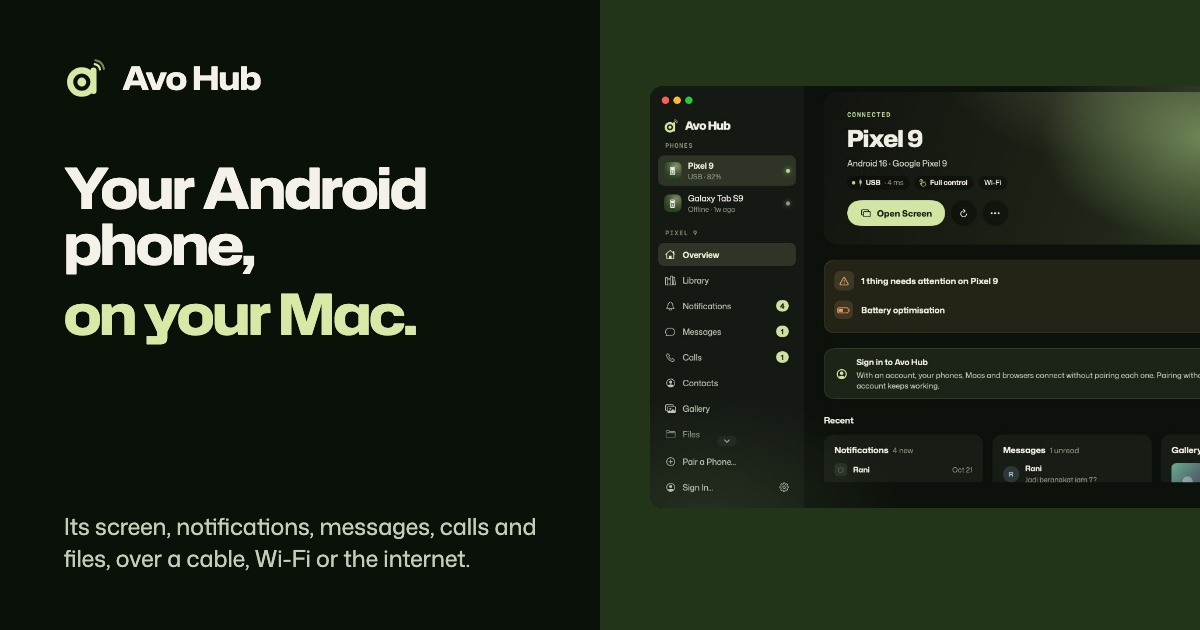
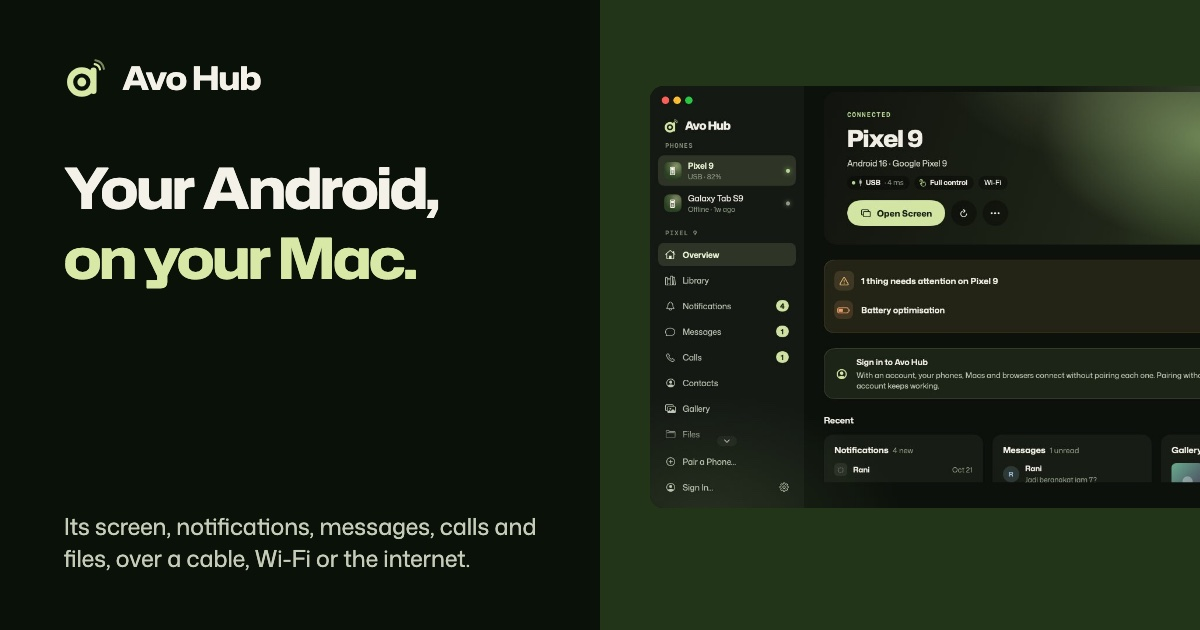
Shorten Avo Hub's headline to Your Android, on your Mac and keep its pairing walk-through compact on phones
The headline fits two lines down to 320 px in both languages (Indonesian:
Android kamu, langsung di Mac), and its share cards say the same. On
phones and tablets the pairing steps are shorter under the held sheet, the
note that it is only a walk-through stays visible, and the first section
keeps its distance from the hero. The windows held beside Avo Hub's
features are no longer hidden from screen readers. The hero's other
windows load after the page. The README describes the slogan, the
screenshots, the new settings and what search engines are given.

Changed region(s): [[0.0308, 0.3619, 0.37, 0.5429], [0.3392, 0.3016, 0.37, 0.3317]]

diff --git a/website/tools/og-image.html b/website/tools/og-image.html
@@ -47,8 +47,8 @@
   const lang = q.get('lang') || 'en';
   const hub = q.get('page') === 'hub';
   const text = (hub ? {
-    en: ['Your Android phone,', 'on your Mac.', 'Its screen, notifications, messages, calls and files, over a cable, Wi‑Fi or the internet.'],
-    id: ['Ponsel Android kamu,', 'langsung di Mac.', 'Layar, notifikasi, pesan, panggilan, dan file-nya, lewat kabel, Wi‑Fi, atau internet.'],
+    en: ['Your Android,', 'on your Mac.', 'Its screen, notifications, messages, calls and files, over a cable, Wi‑Fi or the internet.'],
+    id: ['Android kamu,', 'langsung di Mac.', 'Layar, notifikasi, pesan, panggilan, dan file-nya, lewat kabel, Wi‑Fi, atau internet.'],
   } : {
     en: ['Android at heart.', 'Mac to the core.', 'Android apps and games on your Mac, each in its own window. Free, for Apple silicon.'],
     id: ['Jiwa Android,', 'rasa Mac.', 'Aplikasi dan game Android di Mac kamu, masing-masing di jendelanya sendiri. Gratis, untuk chip Apple.'],

diff --git a/website/src/assets/js/reel.js b/website/src/assets/js/reel.js
@@ -117,13 +117,14 @@ export function setupReel({ reduceMotion }) {
     if (reduceMotion.matches) stop();
   });
 
-  // The other windows wait until the first one has loaded.
-  const first = items[0].querySelector('img');
+  // The other windows load once the page has, so they never compete with
+  // the first screen.
   const warm = () => {
     for (const img of stage.querySelectorAll('img[loading="lazy"]')) img.loading = 'eager';
   };
-  if (first?.complete) warm();
-  else first?.addEventListener('load', warm, { once: true });
+  const idle = () => ('requestIdleCallback' in window ? requestIdleCallback(warm, { timeout: 2500 }) : setTimeout(warm, 600));
+  if (document.readyState === 'complete') idle();
+  else window.addEventListener('load', idle, { once: true });
 
   show(0);
 }

diff --git a/website/src/assets/css/site.css b/website/src/assets/css/site.css
@@ -2697,6 +2697,14 @@ html.has-lightbox {
     margin-top: 24px;
   }
 
+  .hero {
+    min-height: 0;
+  }
+
+  .hero + .section {
+    padding-top: var(--section);
+  }
+
 }
 
 @media (max-width: 1000px) {
@@ -2910,12 +2918,12 @@ html.has-lightbox {
   }
 
   .js .pair-step {
-    min-height: 46svh;
+    min-height: 34svh;
     align-content: center;
   }
 
-  .js .pair-label {
-    display: none;
+  .pair-label {
+    font-size: 14px;
   }
 
   .sheet {

diff --git a/website/src/pages/hub.html b/website/src/pages/hub.html
@@ -86,7 +86,7 @@
             </div>
           </li>
         </ul>
-        <div class="index-stage" data-index-stage aria-hidden="true"></div>
+        <div class="index-stage" data-index-stage></div>
       </div>
       <div class="also">
         <h3 class="h-sub">{{t:hub.features.alsoTitle}}</h3>

diff --git a/website/README.md b/website/README.md
@@ -6,6 +6,12 @@ a small Node script. Plain HTML, CSS and
 JavaScript; no framework, no npm dependencies, no cookies, no analytics. It
 is hosted on GitHub Pages as is.
 
+The slogan is **Android at heart. Mac to the core.** (Indonesian: **Jiwa
+Android, rasa Mac.**). Both pages open with its two halves split by the
+product's real windows, and the footer closes with it. The look is Avo's
+haze palette set flat: no gradients, glows, blur or shadows at rest; the
+pictures are the apps' own windows.
+
 ## Contents
 
 ```
@@ -16,19 +22,23 @@ website/
 │   ├── pages/               index.html (landing page), hub.html (Avo Hub, at /hub), 404.html
 │   ├── partials/            head, header, footer, SVG sprite
 │   ├── i18n/en.json, id.json  All wording, English and Indonesian (same keys; the build checks)
-│   └── assets/              css/site.css, css/fonts/ (one file per typeface set), js/ (site
-│                            behaviour, pointer motion, games showcase, tabs, click to zoom,
-│                            WebGL haze), fonts/ (one folder per family, each with
-│                            its OFL.txt), img/ (Avo mark and icon from branding/, favicons, og/,
-│                            screens/: screenshots of Avo in AVIF, WebP and JPEG at 640 px and
-│                            full width, with player names and device IDs blurred)
+│   └── assets/              css/site.css, css/fonts/ (one file per typeface set), js/ (site.js:
+│                            header, entrances; reel.js: the hero's windows; commands.js: Avo's
+│                            commands and the game keys; story.js: the held story, Avo Hub's
+│                            index and pairing walk-through; lightbox.js: click to zoom),
+│                            fonts/ (one folder per family, each with its OFL.txt), img/ (Avo
+│                            mark and icon from branding/, favicons, og/, screens/: Avo's
+│                            windows, Avo Hub's windows from its snapshot tests and the disk
+│                            image's background, in AVIF, WebP and JPEG at 640 px and full
+│                            width, with player names and device IDs blurred)
 ├── tools/
 │   ├── build.mjs            Builds dist/ (npm run build); --strict refuses placeholders
 │   ├── serve.mjs            Local development server with rebuild on change
 │   ├── screenshots.mjs      Headless Chrome screenshots and layout checks
 │   └── og-image.html        Template for the social preview images (src/assets/img/og/)
 ├── tests/                   node --test: the built site (both languages, links, no emoji,
-│                            CSP-friendly markup, configuration switches)
+│                            CSP-friendly markup, titles, share cards, structured data,
+│                            sitemap, configuration switches)
 ├── deploy/github-pages.yml  GitHub Actions workflow to copy into .github/workflows/
 └── dist/                    Build output (ignored by git)
 ```
@@ -47,8 +57,8 @@ the ones left and `npm run build:strict` refuses to build until none are.
 | --- | --- |
 | `siteUrl` | Public address of the site (`https://avodroid.com`). Used for canonical links, the sitemap and social previews. |
 | `githubUrl`, `githubBranch` | The repository and its branch, for links into `docs/`. |
-| `release` | `available: false` says plainly that no build is published and offers "Build from source". Set `available: true`, `version` and `downloadUrl` when a release is out. |
-| `hub` | Avo Hub's page: its repository (`githubUrl`) and `release`, which works like Avo's. While `available` is false the page says Avo Hub isn't released yet and points to GitHub and to building from source. |
+| `release` | `available: false` says plainly that no build is published and offers "Build from source". Set `available: true`, `version`, `downloadUrl` and `size` (the disk image's size, shown beside the button and as a figure) when a release is out. |
+| `hub` | Avo Hub's page: its repository (`githubUrl`, linked only once `openSource` is true), `release`, which works like Avo's, and the links to its plans and policies (`pricingUrl`, `termsUrl`, `privacyUrl`, `refundUrl`, opened with `?lang=` in the page's language). While `available` is false the page says Avo Hub isn't released yet and leads to its pricing. |
 | `fonts` | The typeface set, one switch for the whole site: `'hubot-mona'` (A, default: Hubot Sans headings, Mona Sans text, Mona Sans Mono labels), `'geist'` (B), `'archivo'` (C), `'jakarta'` (D, Plus Jakarta Sans). Letters work too. Only the chosen set's files are published. |
 | `maintainer.name` | Named in the footer credit ("Made by … in West Kalimantan, with help from Claude."). `null` says "an independent developer". |
 | `contact.email` | Public contact address. |
@@ -83,6 +93,20 @@ runs:
 ```sh
 node tools/screenshots.mjs --out /tmp/avo-shots [--only home-en] [--views desktop,phone]
 ```
+
+It takes every page at 1440 (desktop), 1280 (laptop), 820 (tablet), 390
+(phone) and 320 px (small), in both languages.
+
+## Search engines and link previews
+
+The build gives every page its own title and description, a canonical link,
+`hreflang` alternates (en, id, x-default), Open Graph and Twitter cards with
+the images in `src/assets/img/og/` (rendered from `tools/og-image.html`),
+and one JSON-LD graph: the organisation, the website, the page, the app
+(Avo, or Avo Hub with its Free and Pro offers), the page's questions as a
+FAQPage, and a breadcrumb on /hub. `sitemap.xml` lists both languages of each
+page with their alternates and screenshots; `robots.txt` points to it. The
+first screen's picture is preloaded (AVIF) along with the two typefaces.
 
 ## Deploy
 
